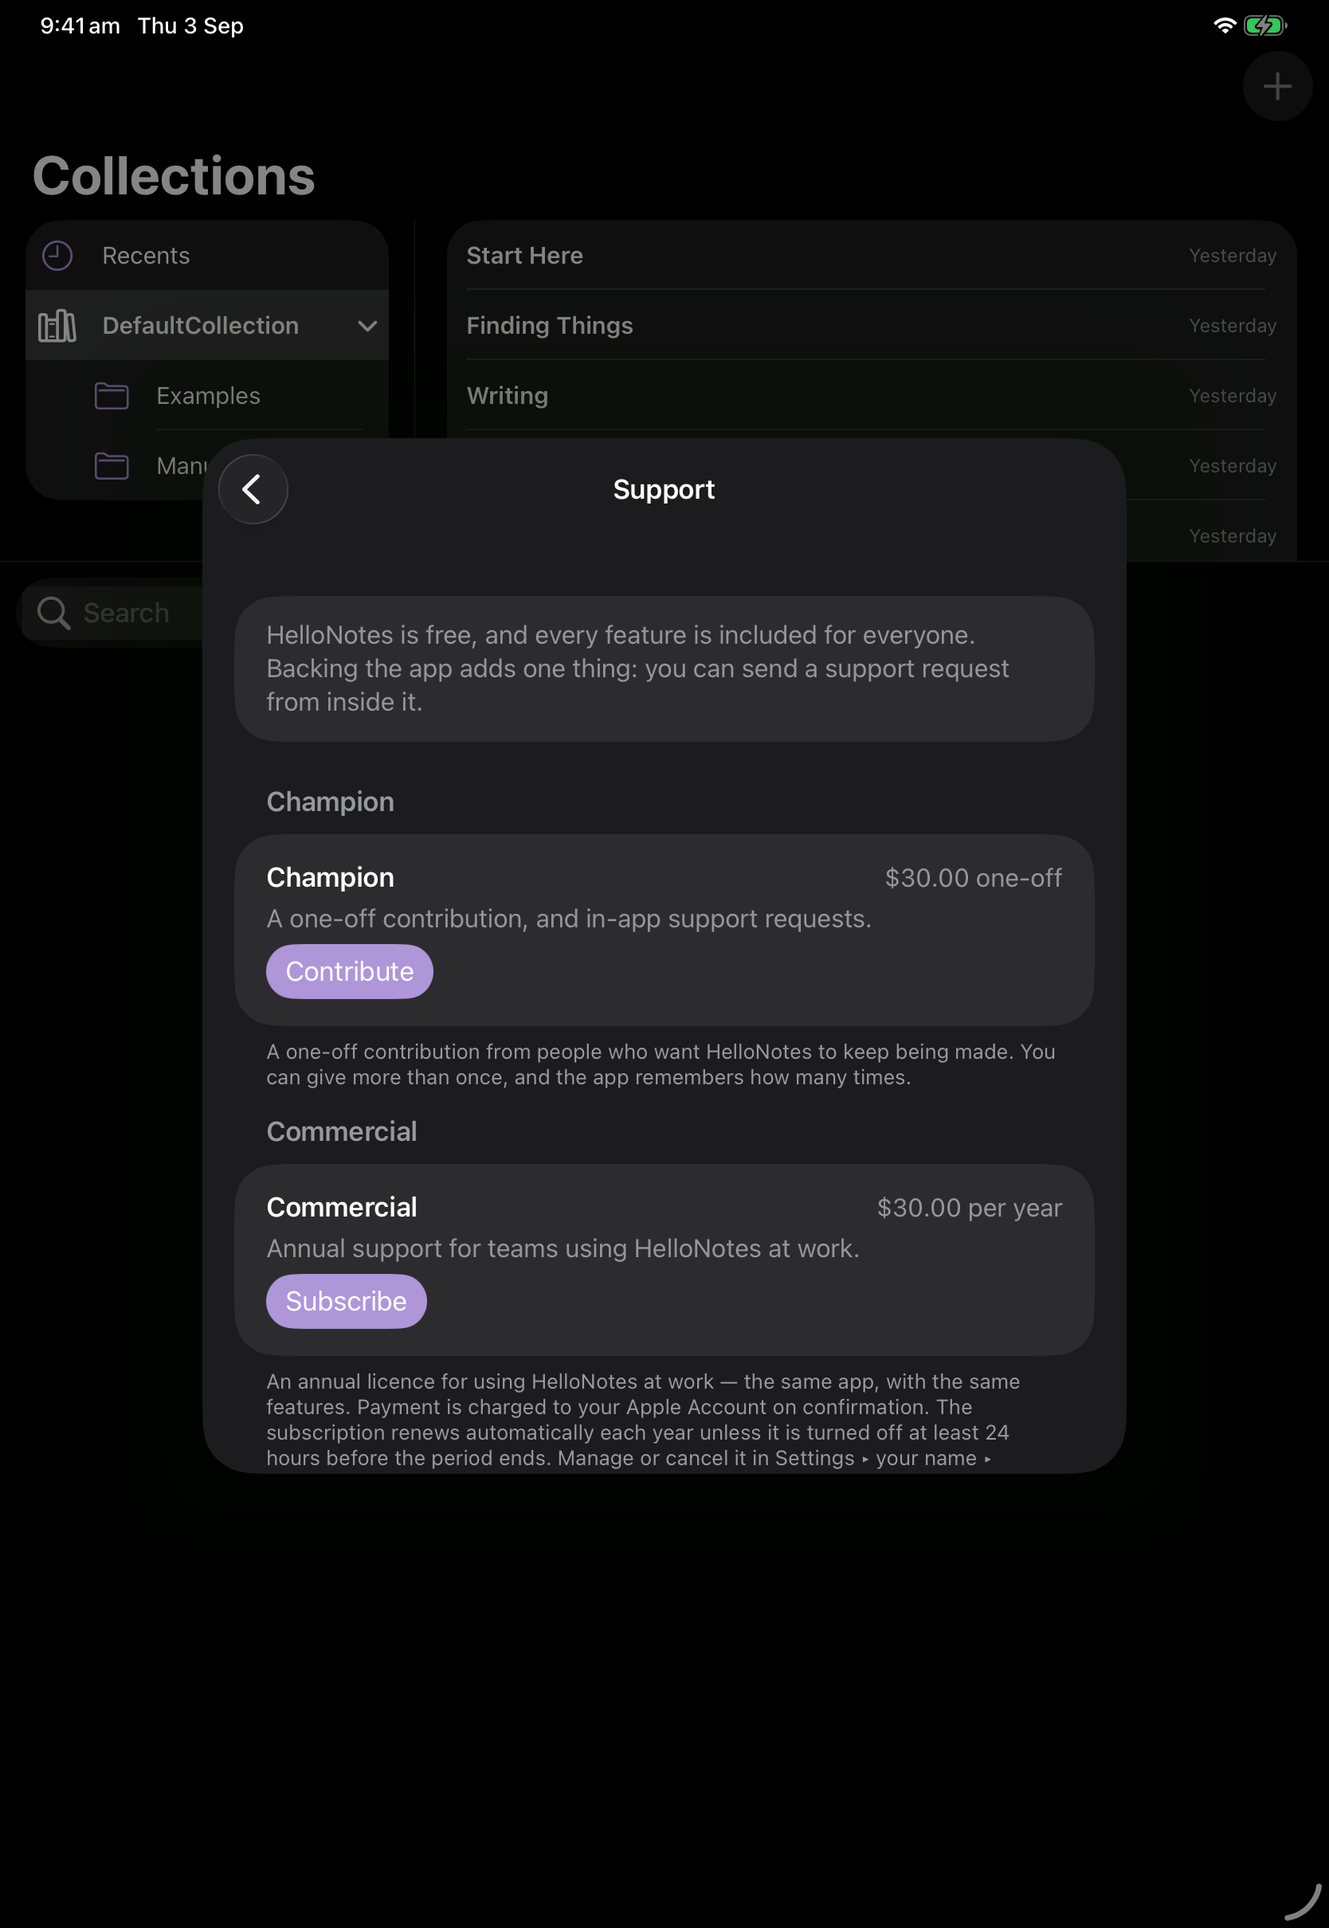
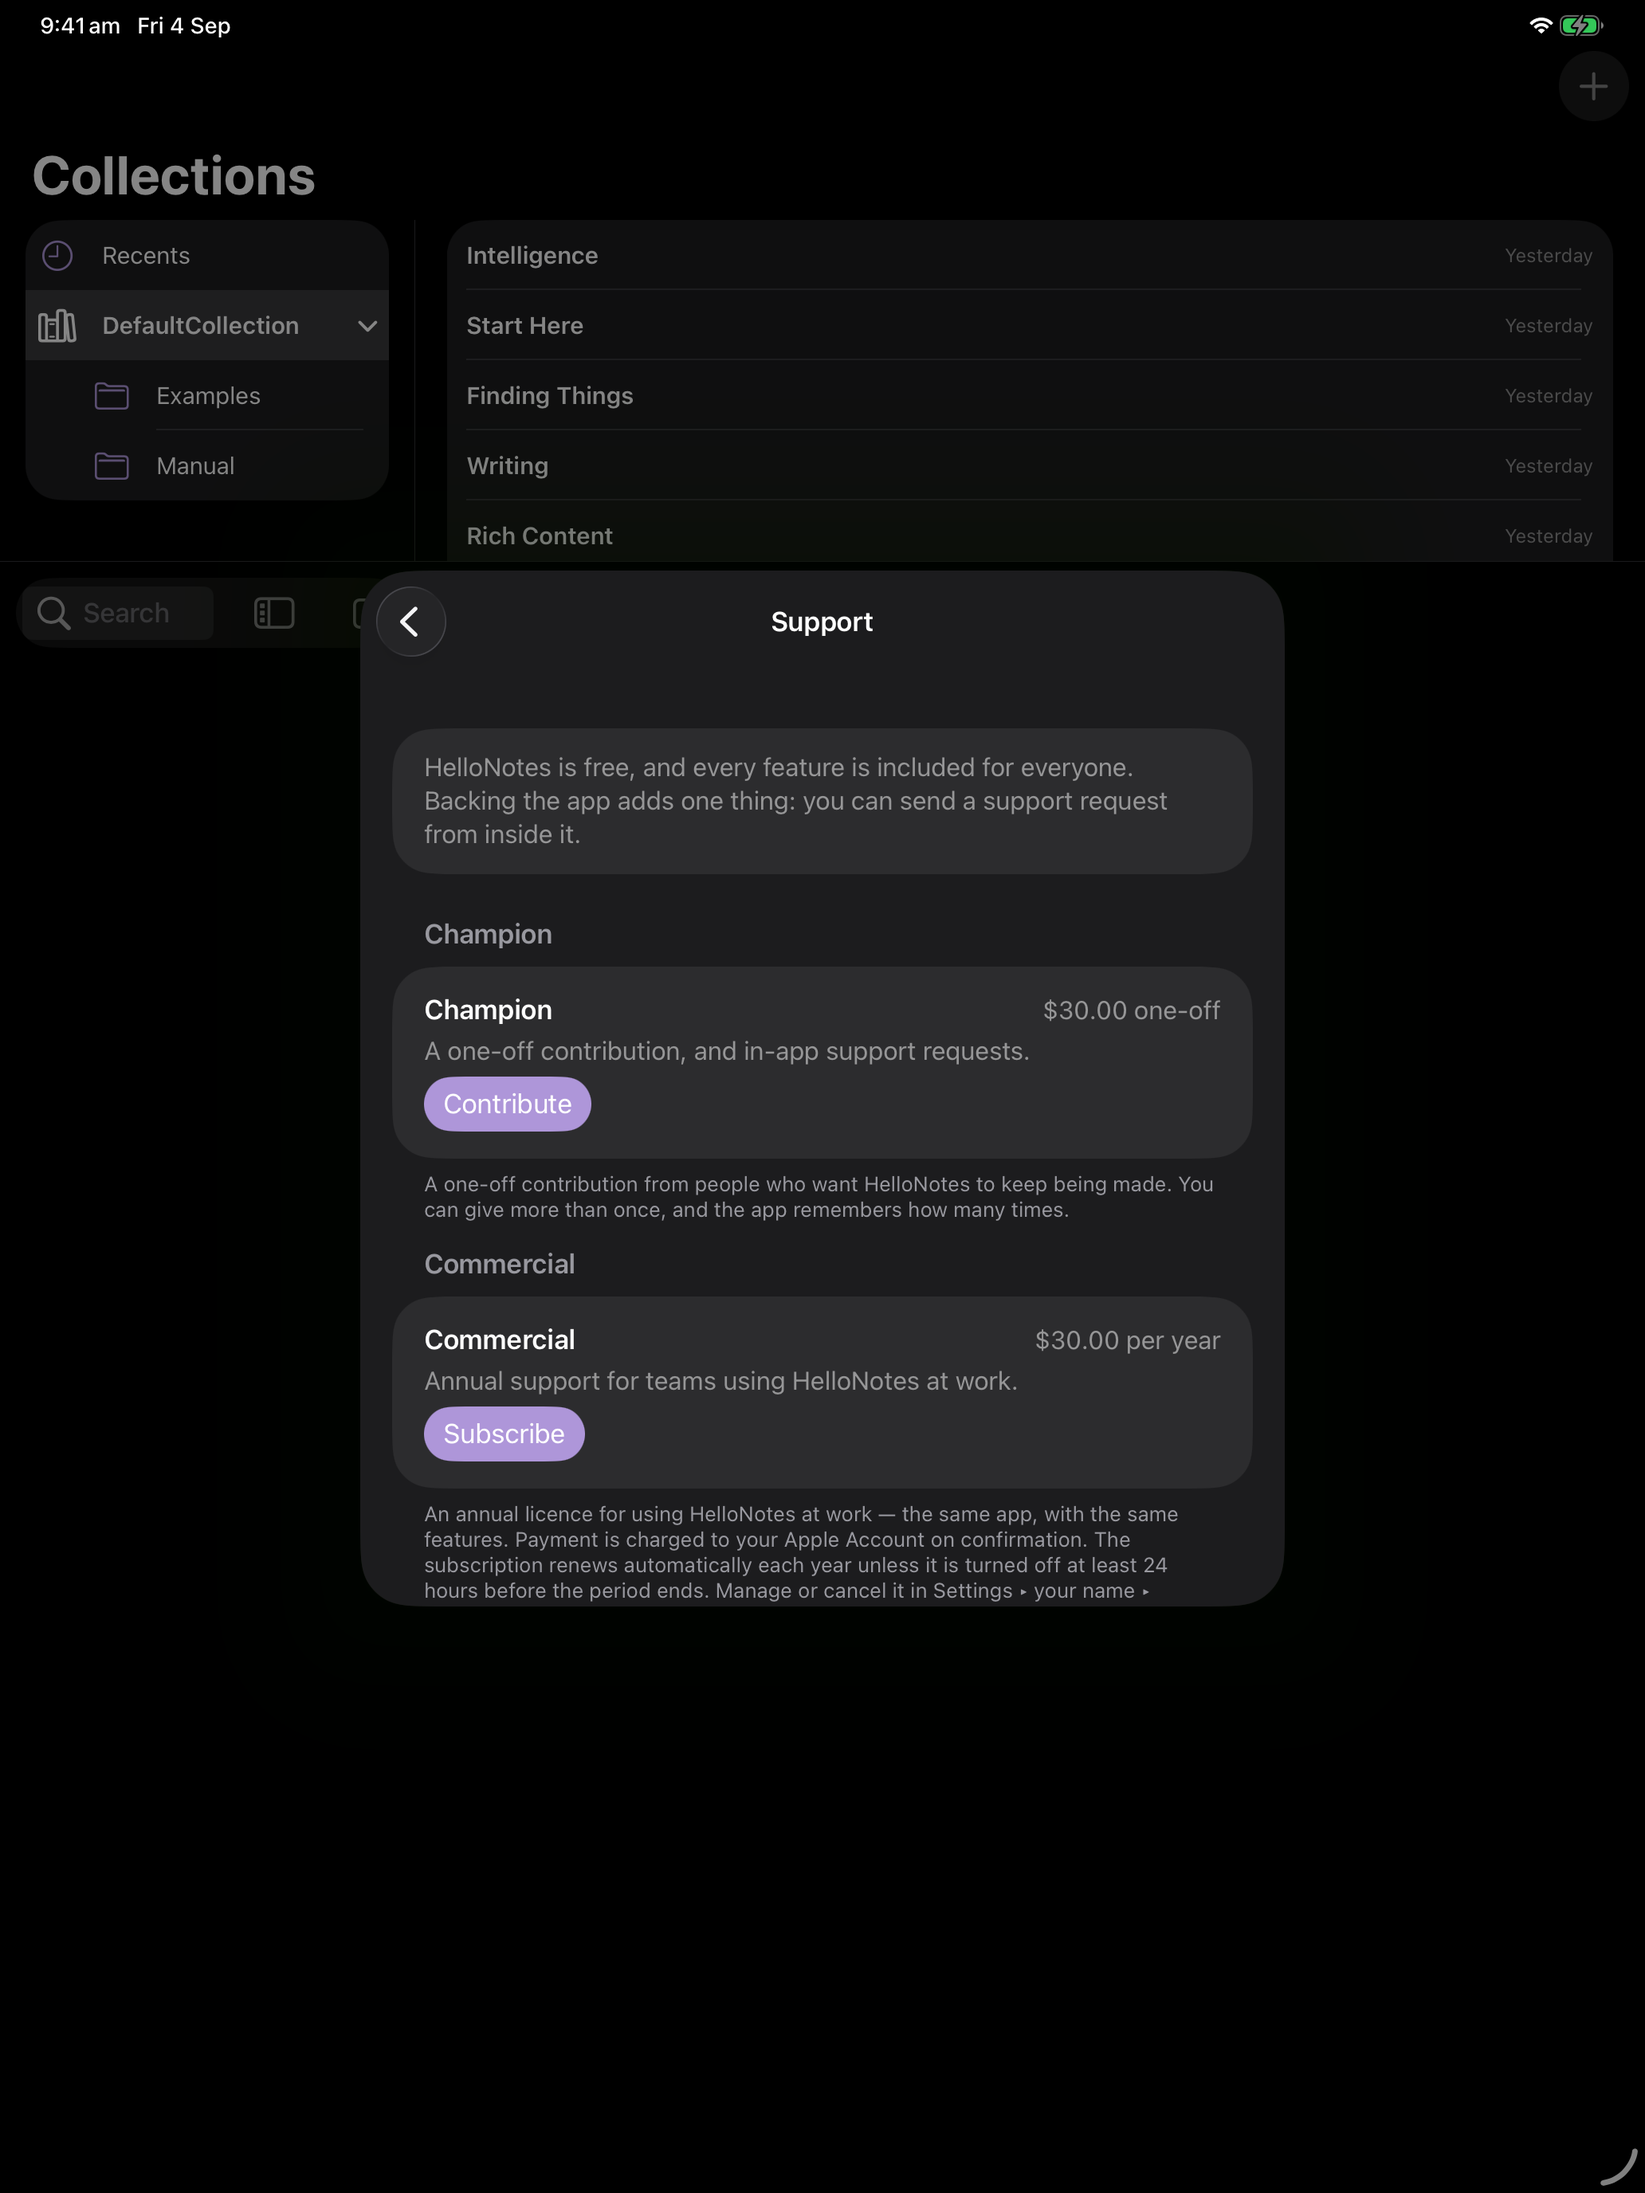
The screenshot App Store Connect would actually accept
The IAP App Review screenshot has its own size rules, and they are not the
app-screenshot rules. Two valid iPad captures were refused before one worked:
1668 x 2420 (11-inch) and 2064 x 2752 (13-inch). What uploaded was 1284 x 2778,
an iPhone 6.5" capture.

So the iPhone shot is the one that ships, and the README says which sizes were
tried and refused — the next person should not have to rediscover that by
uploading twice. The 13-inch iPad file stays, because it is the clearer picture
of the screen even though it cannot be the one submitted.

diff --git a/assets/iap-review/README.md b/assets/iap-review/README.md
@@ -2,7 +2,7 @@
 
 Two artifacts, for the two things App Review asks for separately.
 
-## `support-screen-ipad.png` — the App Review screenshot (Guideline 2.1(b))
+## `support-screen-iphone.png` — the App Review screenshot (Guideline 2.1(b))
 
 App Store Connect requires a screenshot per in-app purchase before the product
 can be submitted, and a missing one is a Guideline 2.1(b) rejection ("one or
@@ -10,9 +10,17 @@ more of the In-App Purchase products have not been submitted for review") —
 which is exactly what happened to build 14. One file serves both products,
 because both appear on the one screen.
 
-Settings ▸ Support on an iPad Pro 11-inch M4 simulator (1668 × 2420), captured
-with `xcrun simctl io HN-iPad screenshot` against the **live** App Store, so the
-prices in it are real product data rather than placeholders. Both products have
+**App Store Connect rejects most valid device sizes here.** The IAP App Review
+screenshot does *not* accept the sizes the app screenshots accept: an iPad Pro
+11-inch capture (1668 × 2420) was refused, and so was the 13-inch one
+(2064 × 2752, kept as `support-screen-ipad.png` because it is the clearer
+picture of the screen). The size that was accepted is **1284 × 2778** — an
+iPhone 6.5" capture. Shoot this one on an iPhone simulator; do not reach for the
+iPad file and expect it to upload.
+
+Settings ▸ Support, captured with `xcrun simctl io <device> screenshot` against
+the **live** App Store, so the prices in it are real product data rather than
+placeholders. Both products have
 to be loading for it to be worth taking: the Champion consumable was created one
 morning and returned nothing for roughly forty-five minutes while it propagated,
 and a screenshot taken in that window would have shown "Champion is unavailable
